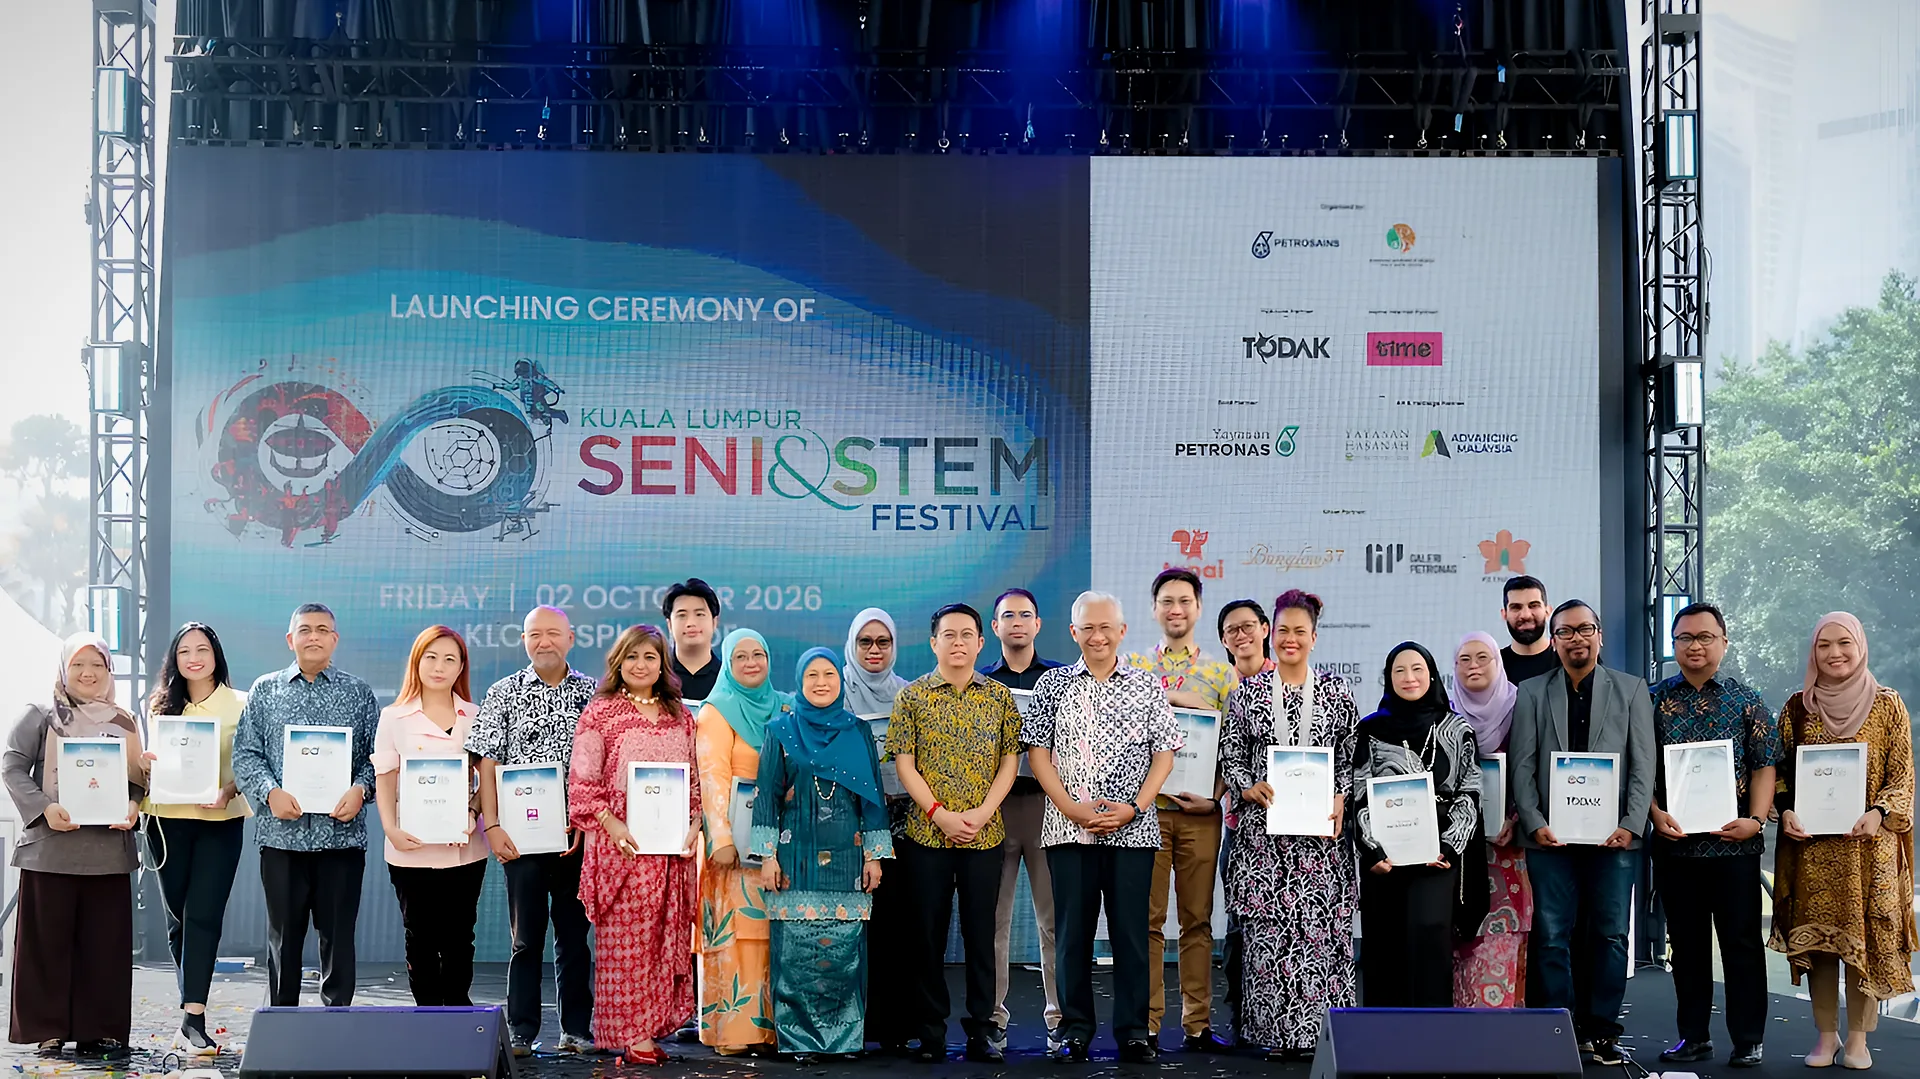
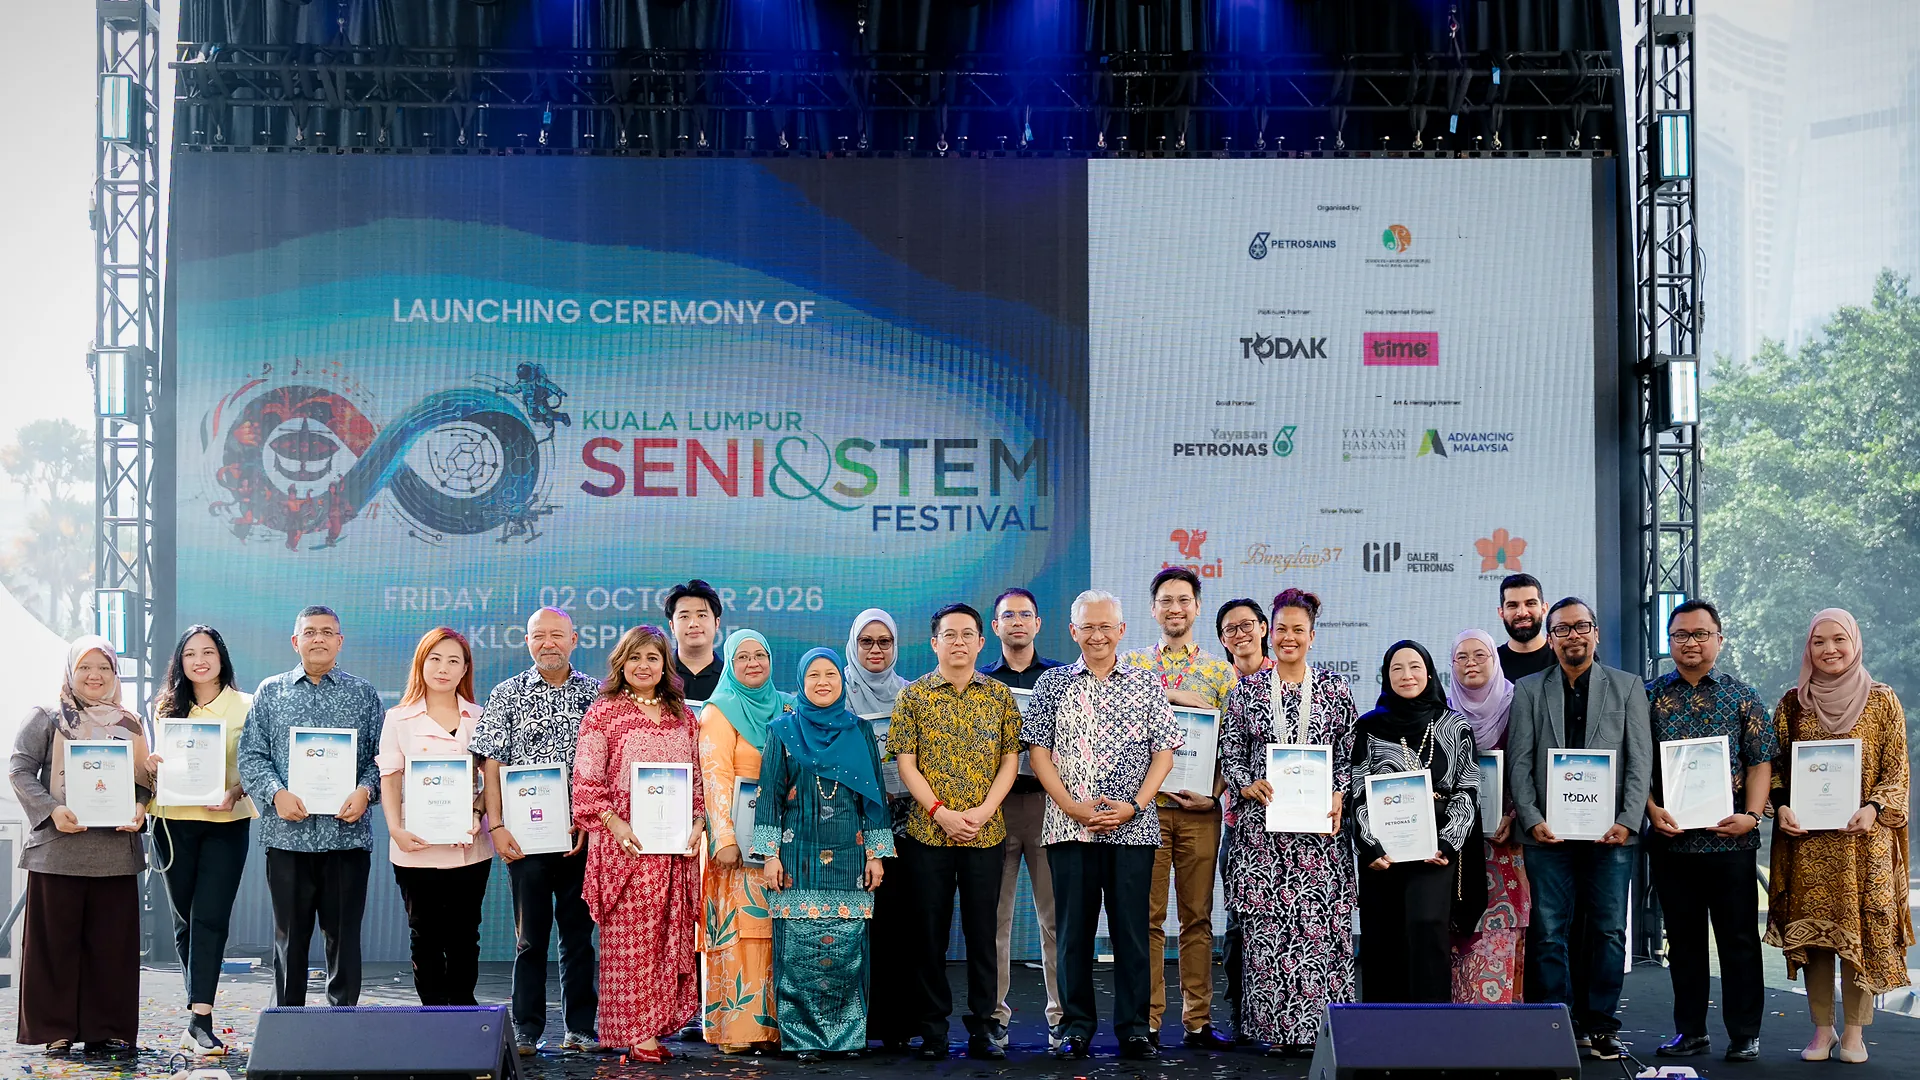
KLSSF: full-res launch cover, add four festival photos to gallery

diff --git a/app/data/content.js b/app/data/content.js
@@ -226,7 +226,7 @@ export const cases = [
       { value: '49%', label: 'Higher Attendance than KLSSF 2025', icon: 'trend' },
       { value: '377', label: 'Students Completed the 10-Station STEM Trail', sub: 'From 285 families across 14 states', icon: 'calendar' },
     ],
-    photos: ['/assets/cases/klssf-01.webp', '/assets/cases/klssf-02.webp', '/assets/cases/klssf-03.webp', '/assets/cases/klssf-04.webp', '/assets/cases/klssf-05.webp', '/assets/cases/klssf-06.webp', '/assets/cases/klssf-07.webp'] },
+    photos: ['/assets/cases/klssf-01.webp', '/assets/cases/klssf-08.webp', '/assets/cases/klssf-02.webp', '/assets/cases/klssf-03.webp', '/assets/cases/klssf-09.webp', '/assets/cases/klssf-10.webp', '/assets/cases/klssf-04.webp', '/assets/cases/klssf-05.webp', '/assets/cases/klssf-11.webp', '/assets/cases/klssf-06.webp', '/assets/cases/klssf-07.webp'] },
   { n: '12', client: 'Nestlé', title: 'KITKAT Chocolate Drink Activation', headline: "Break Your Routine", category: 'Brand Activation', hidden: true, photo: '/assets/cases/kitkat-drink-cover.webp',
     challenge: 'Turn KitKat Drink’s “Have a Break” equity into a relevant, real-world response to the everyday pressure felt by students and young professionals — while driving product trial, purchase and repeat consideration across a nationwide activation.',
     experience: 'A two-part activation that takes the brand beyond conventional sampling. Guerrilla moments interrupt everyday routines with surprising, talk-worthy “break” experiences, while the roadshow brings product discovery to consumers through sampling, engagement games, sales and redemption. The rollout spans 50 days across Central, North and South Coast Malaysia, supported by a clear consumer journey from trial to purchase.',
